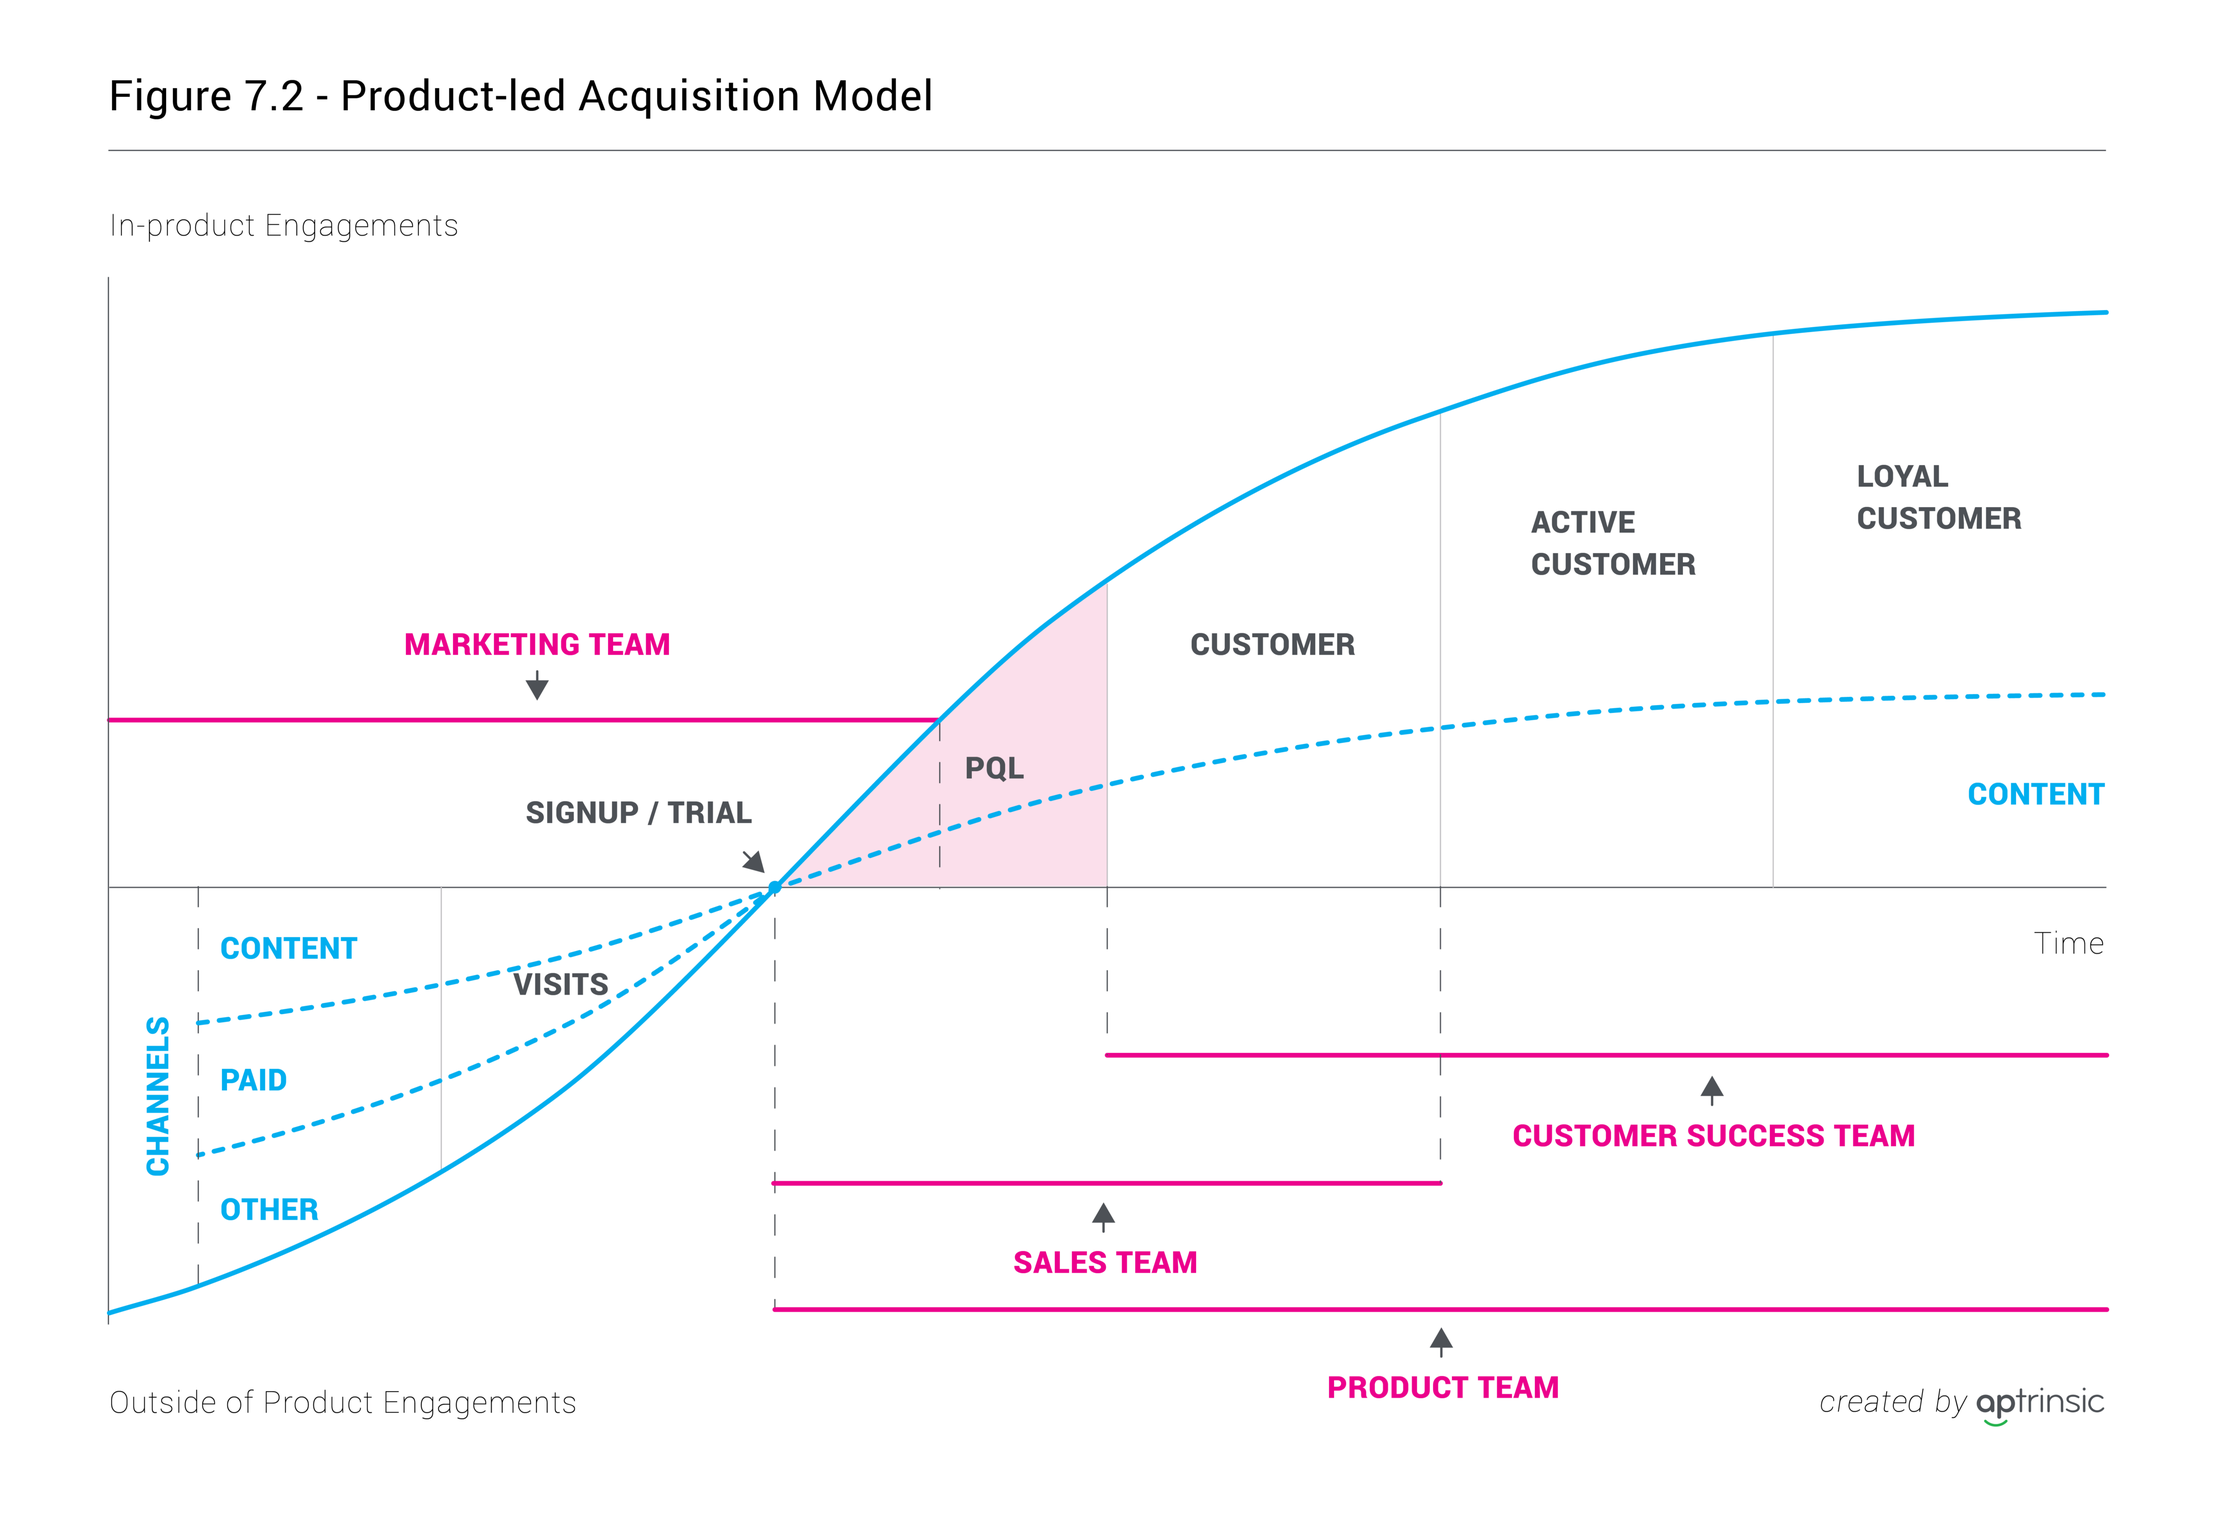
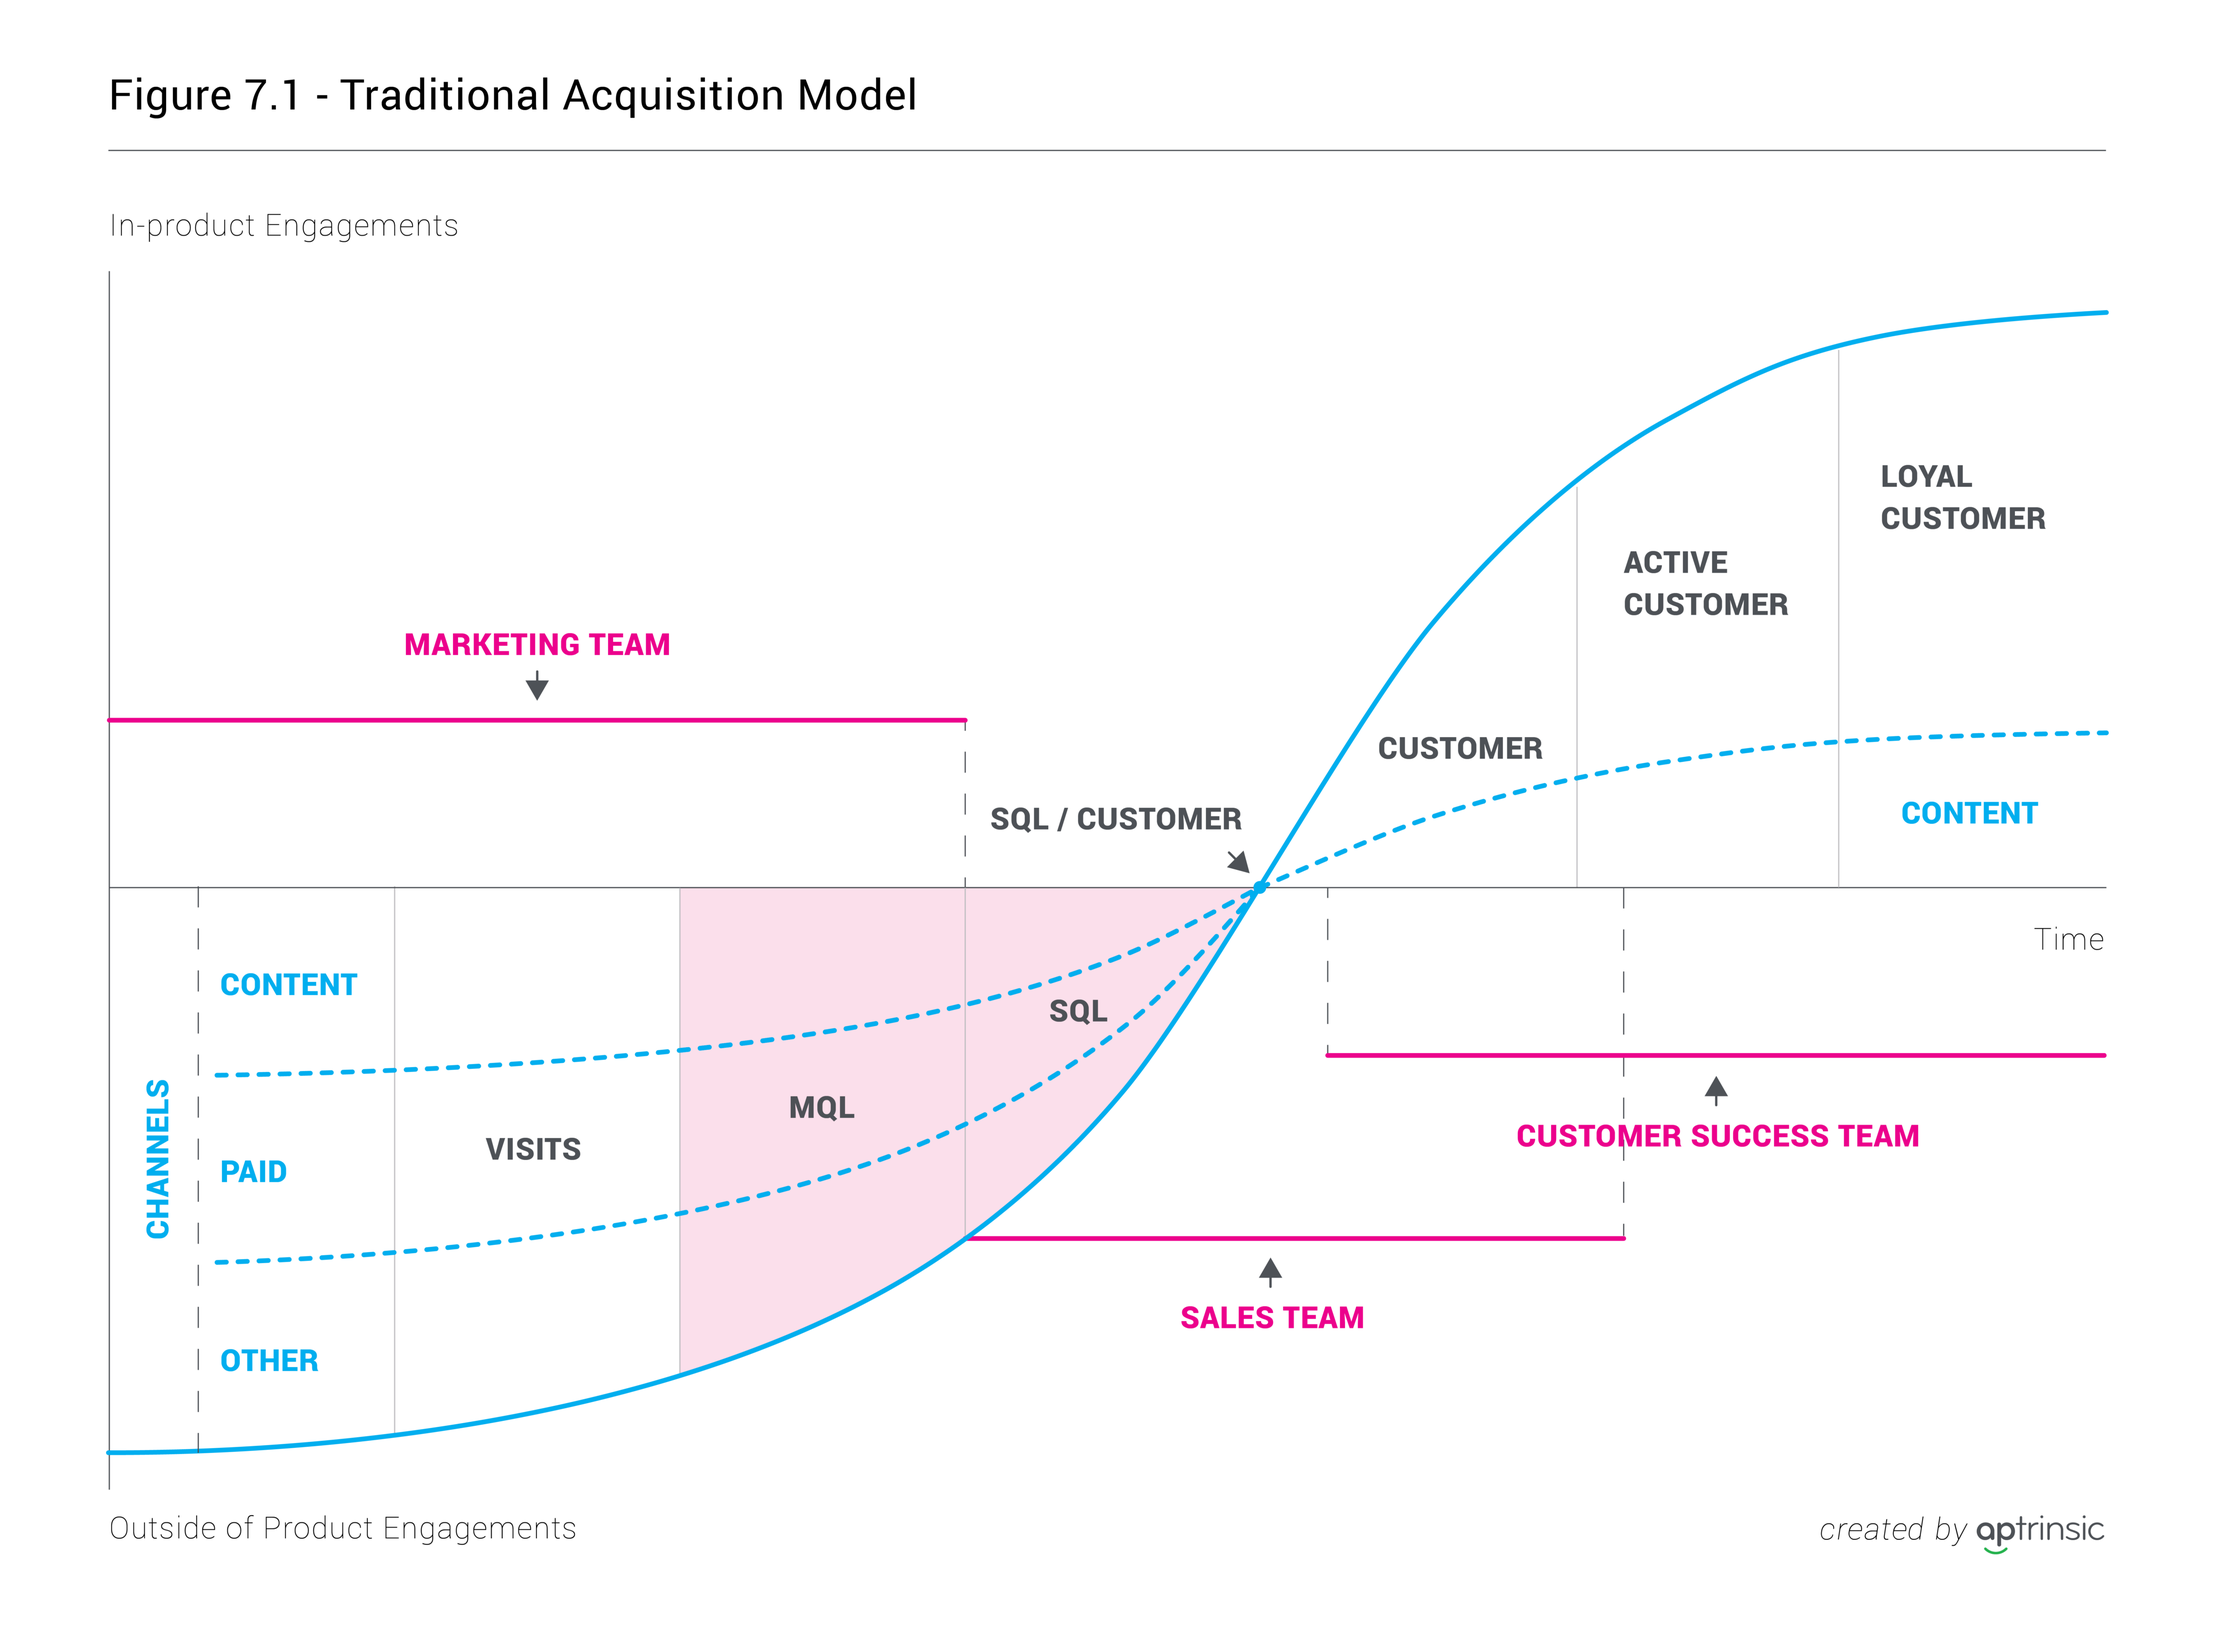
Update Blog “2021-05-27-vergleich-go-to-market-strategien”

diff --git a/_posts/2021-05-27-vergleich-go-to-market-strategien.md b/_posts/2021-05-27-vergleich-go-to-market-strategien.md
@@ -57,7 +57,30 @@ Marketingorientierte und salesorientierte Go-to-Marketingstrategien werden meist
 
 ## Produktorientierte Go-to-Market Strategie
 
-Das Self-Service Vertriebsmodell eignet sich vor allem für einen niedrigen Preispunkt und eine niedrige Produktkomplexität. Es verzichtet dabei weitgehend auf ein Vertriebsteam und ermöglicht den Kunden(innen) den Kauf eigenständig durchzuführen und das Produkt direkt und mittels einem einfachen und benutzerfreundlichen Onboarding zu nutzen. Die Aufgabe des Marketing ist hierbei größtmögliche Aufmerksamkeit für das Produkt zu generieren und durch die Veröffentlichung von Educational Content, die bestmögliche Produktnutzung zu ermöglichen.
+Eine produktorientierte Go-to-Market Strategie definiert sich dadurch, dass das Produkt selbst der wesentliche Treiber für die Neukundenakquise, die Produktaktivierung, der Konvertierung von einer kostenlosen zu einer kostenpflichtigen Subscription und dem weiteren Wachstum eines SaaS-Produktes ist.
+
+Die produktorientierte Go-to-Market Strategie eignet sich aus diesem Grund vor allem für Produkte mit einem niedrigen Preispunkt und einer niedrigen Produktkomplexität zu vertreiben. Das Self-Service Vertriebsmodell ermöglicht den Kunden(innen) den Kauf eigenständig durchzuführen und das Produkt direkt und mit Hilfe eines einfachen und benutzerfreundlichen Onboarding zu nutzen.
+
+Bei der produktorientierten GTM Strategie wird versucht, Interessenten schnellstmöglich vom Produktnutzen zu überzeugen und als Product Qualified Leads (PQL) zu qualifizieren, um weitere Cross- und Upselling Vertriebsmaßnahmen einzuleiten:
+
+![Leadqualifizierung von Visitor zu PQL](/assets/uploads/saas-leadqualifizierung-von-visitor-zu-pql.png "Leadqualifizierung von Visitor zu PQL")
+
+Die Aufgabe des Marketing ist hierbei größtmögliche Aufmerksamkeit für das Produkt zu generieren und eine einfache Produktnutzung zu ermöglichen. Die teamübergreifende Fokussierung auf das Produkterlebnis und eine effiziente Zusammenarbeit zwischen den Marketing, Product-, Sales- und Customer Success Teams ermöglicht die Kundenbeziehung stets in den Mittelpunkt der gemeinsamen Aktivitäten zu stellen.
+
+Erfolgsfaktoren einer produktorientierten Go-to-Market Strategie sind:
+
+* Kaufentscheider
+  : Product Manager, Developer, Marketer
+* Vertriebszyklus
+  : Stunden
+* Vertragsvolumen
+  : bis 5 Tsd. US-Dollar
+* Kosten für die Kundenakquise (CAC)
+  : Niedrig
+* Produktkomplexität
+  : Niedrig
+
+Im Gegensatz zu der salesorientierten- und marketingorientierten GTM Strategie, wird bei dieser Strategie kein dediziertes Vertriebsteam benötigt, um die gewünschten Zielgruppen zu erreichen und Kunden(innen) zu gewinnen.
 
 ## Vergleich der Go-to-Market Strategien
 
@@ -70,12 +93,6 @@ Im nächsten Artikel versuche ich näher auf potentielle Faktoren für das Wachs
 * [State of the Open Cloud 2019](https://de.slideshare.net/Battery_Ventures/state-of-the-opencloud-2019)
 * [Mastering Product Experience (in SaaS), Intrinsic Point](https://intrinsicpoint.com/mastering-product-experience-in-saas/home)
 * [The Proven Process for Developing a Go-to-Market Strategy](https://blog.hubspot.com/sales/gtm-strategy)
-* [Five ways to build a $100 million business](https://christophjanz.blogspot.com/2014/10/five-ways-to-build-100-million-business.html)
-* [2019 Expansion SaaS Benchmarks Report](https://openviewpartners.com/expansion-saas-benchmarks)
-* [State of Product-Led Growth 2019](https://www.productled.org/data-and-trends/state-of-product-led-growth)
-* [The Implication of Secular Increases in SaaS CAC](https://tomtunguz.com/cac-increase/)
-* [The Rising Stakes in SaaS](https://tomtunguz.com/rising-table-stakes-in-saas/)
-* [What is Product-Led Growth?](https://openviewpartners.com/blog/what-is-product-led-growth/)
-* [Why Trello Failed to Build a $1 Billion+ Business](https://www.linkedin.com/pulse/why-trello-failed-build-1-billion-business-hiten-shah/)
+* [What is Product Led Growth? How to Build a Software Company in the End User Era](https://openviewpartners.com/blog/what-is-product-led-growth/)
 
 💡 PS: um in Zukunft keinen Artikel zu verpassen, kannst du mir gerne auf [Twitter](https://twitter.com/mariostnr) oder [LinkedIn](https://www.linkedin.com/in/mario-steiner) folgen oder dich zu meinem persönlichen [Newsletter](http://eepurl.com/heuGRP) anmelden
